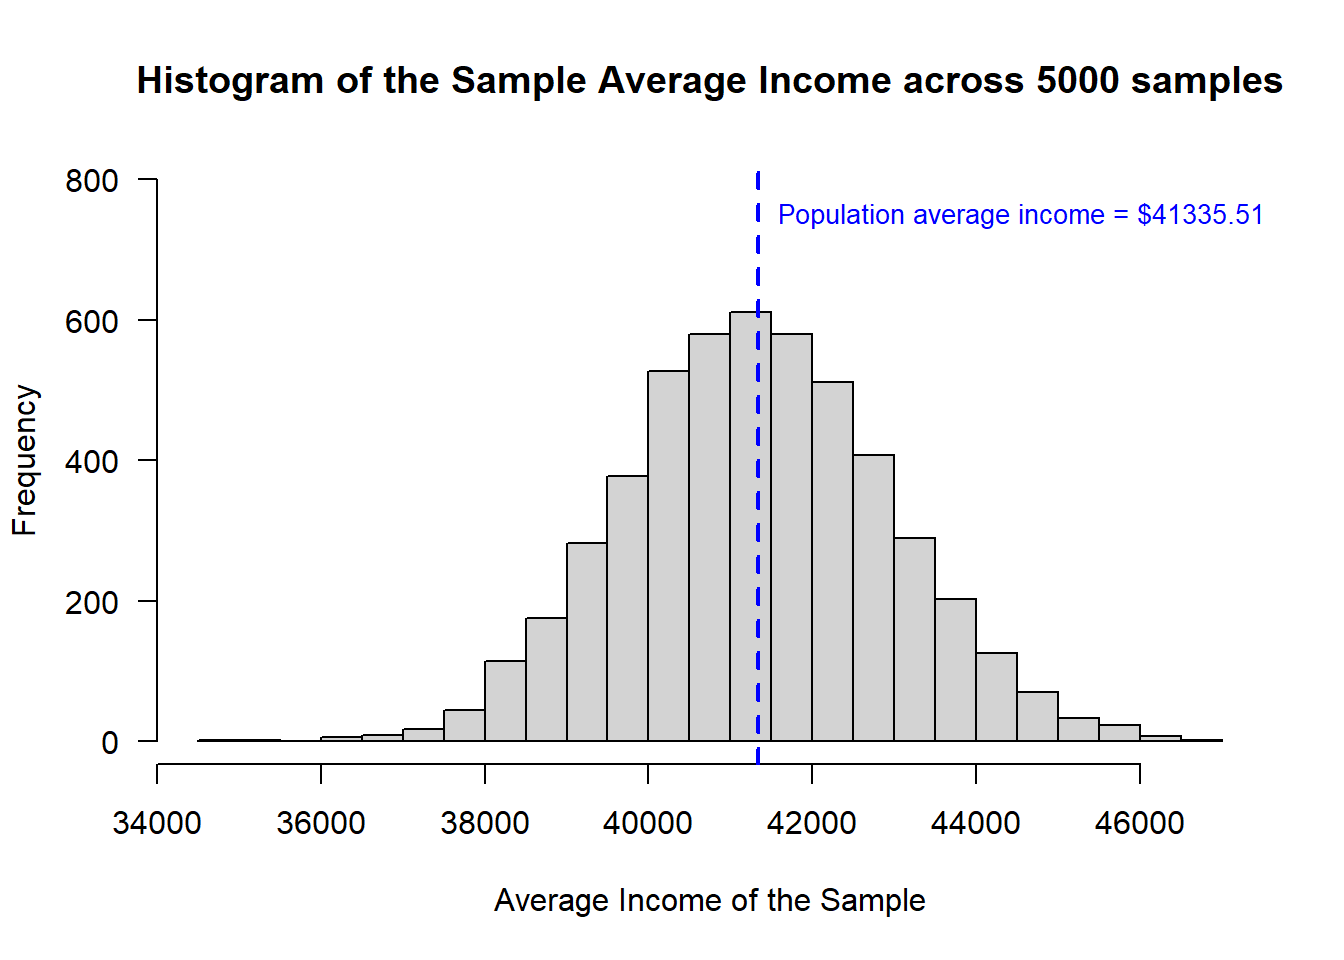
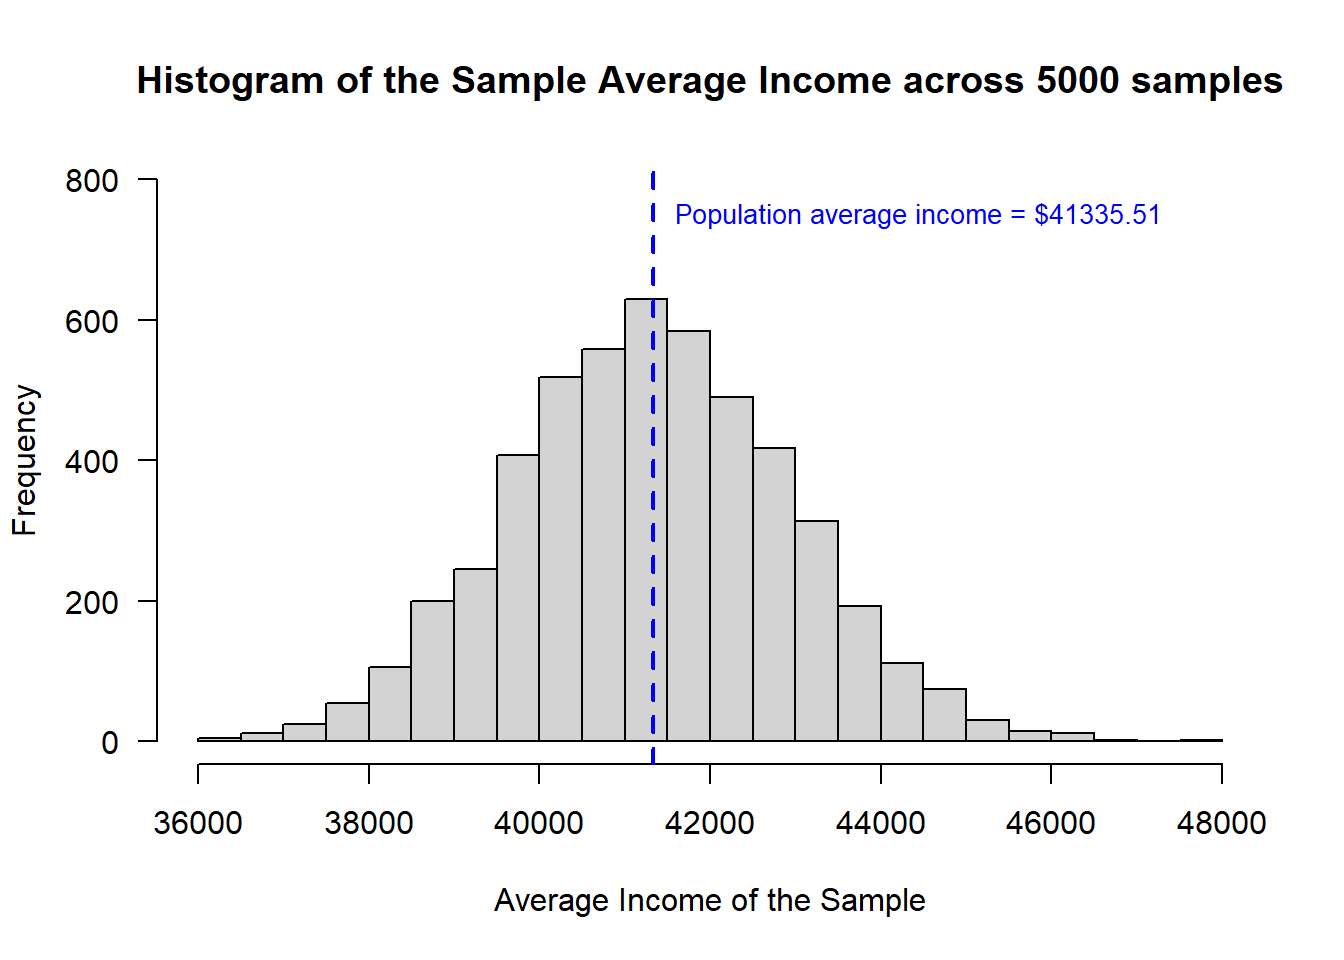
Update Prestige dataset

Changed region(s): [[0.1562, 0.2812, 0.875, 0.7812], [0.0625, 0.8438, 0.9375, 0.875], [0.5, 0.1875, 0.9375, 0.25]]

diff --git a/docs/03b-CLT.html b/docs/03b-CLT.html
@@ -465,11 +465,11 @@ deviation of the sample.</p>
 <pre class="r"><code># Calculate the sample mean of Income
 sample.avg &lt;- mean(study.data$INCOME)
 sample.avg</code></pre>
-<pre><code>&gt; [1] 42430.13</code></pre>
+<pre><code>&gt; [1] 40463.84</code></pre>
 <pre class="r"><code># Calculate the sample sd of Income
 sample.sd &lt;- sd(study.data$INCOME)
 sample.sd</code></pre>
-<pre><code>&gt; [1] 30515.42</code></pre>
+<pre><code>&gt; [1] 30780.29</code></pre>
 <p>If you run the last two sections of code repeatedly, you will find
 that each time a new sample is selected the sample mean is a different
 number.</p>
@@ -597,7 +597,7 @@ upperCI = sample.avg + qnorm(0.975, mean = 0, sd = 1) * se
 
 print(cbind(sample.avg, lowerCI, upperCI))</code></pre>
 <pre><code>&gt;      sample.avg  lowerCI  upperCI
-&gt; [1,]   42436.66 39688.24 45185.08</code></pre>
+&gt; [1,]   38914.76 35946.79 41882.73</code></pre>
 <hr />
 </div>
 <div id="interpreting-confidence-intervals" class="section level2">
@@ -624,7 +624,7 @@ sample.reps$outBounds[ true.avg &gt; sample.reps$upperCI ] &lt;- 1
 
 # what % of study replications reported 95% CI that did not include the true population average?
 sum(sample.reps$outBounds)/m</code></pre>
-<pre><code>&gt; [1] 0.052</code></pre>
+<pre><code>&gt; [1] 0.0552</code></pre>
 <p>I hope it is not too much of a surprise that this is really close to
 5%!</p>
 <p>Next: Elements of a Statistical Test</p>

diff --git a/docs/04a-Binomial-Test.html b/docs/04a-Binomial-Test.html
@@ -362,7 +362,7 @@ p of “success” is called a Bernoulli trial.</p>
 <pre class="r"><code># Simulate a single Bernoulli trial with p = 1/6
 p = 1/6
 if(runif(1) &lt;= p){1}else{0}</code></pre>
-<pre><code>&gt; [1] 0</code></pre>
+<pre><code>&gt; [1] 1</code></pre>
 </div>
 <div id="recall-the-binomial-process" class="section level3">
 <h3>Recall the Binomial Process</h3>
@@ -371,7 +371,7 @@ if(runif(1) &lt;= p){1}else{0}</code></pre>
 p = 1/6
 n = 20
 as.integer(runif(n) &lt;= p)</code></pre>
-<pre><code>&gt;  [1] 0 0 0 0 1 0 1 0 0 0 0 0 0 1 0 1 1 1 0 0</code></pre>
+<pre><code>&gt;  [1] 0 0 0 0 0 0 0 0 0 0 0 0 0 0 0 0 0 1 1 0</code></pre>
 <hr />
 </div>
 </div>
@@ -430,9 +430,9 @@ trials when the probability of success is “prob”</p>
 n = 20
 p = 1/6
 rbinom(n = trials, size = n, prob = p)</code></pre>
-<pre><code>&gt;   [1] 5 3 4 4 3 3 6 1 2 5 2 2 4 6 6 5 4 4 8 2 2 1 5 2 4 7 3 1 2 3 6 3 5 2 4 5 5
-&gt;  [38] 3 4 3 1 3 2 4 4 5 3 3 4 3 3 4 5 4 4 3 3 3 0 4 5 0 0 4 7 3 1 5 6 1 5 3 6 1
-&gt;  [75] 3 3 5 0 4 3 3 2 3 5 2 5 1 1 4 3 1 2 3 3 2 2 2 1 3 1</code></pre>
+<pre><code>&gt;   [1] 3 2 1 2 3 5 5 6 4 6 3 7 4 3 3 2 3 5 4 1 1 6 2 3 2 3 3 3 3 6 3 5 3 2 2 5 4
+&gt;  [38] 5 5 2 1 3 3 4 4 3 3 1 5 1 2 3 5 4 4 3 4 2 2 3 2 3 3 3 4 2 3 2 3 2 1 5 5 1
+&gt;  [75] 3 2 3 0 4 4 4 3 2 6 3 2 5 2 5 3 5 4 1 5 4 4 2 6 4 3</code></pre>
 <hr />
 </div>
 </div>
